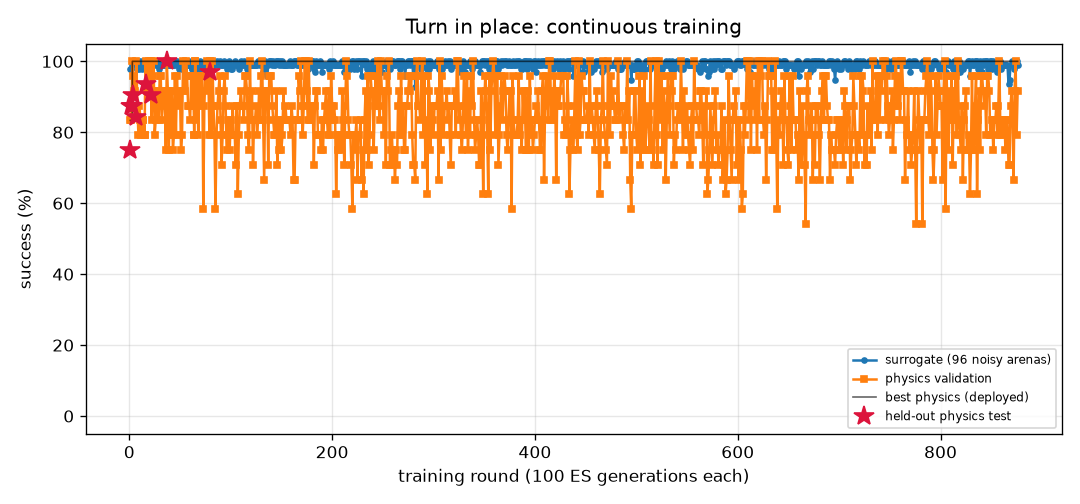
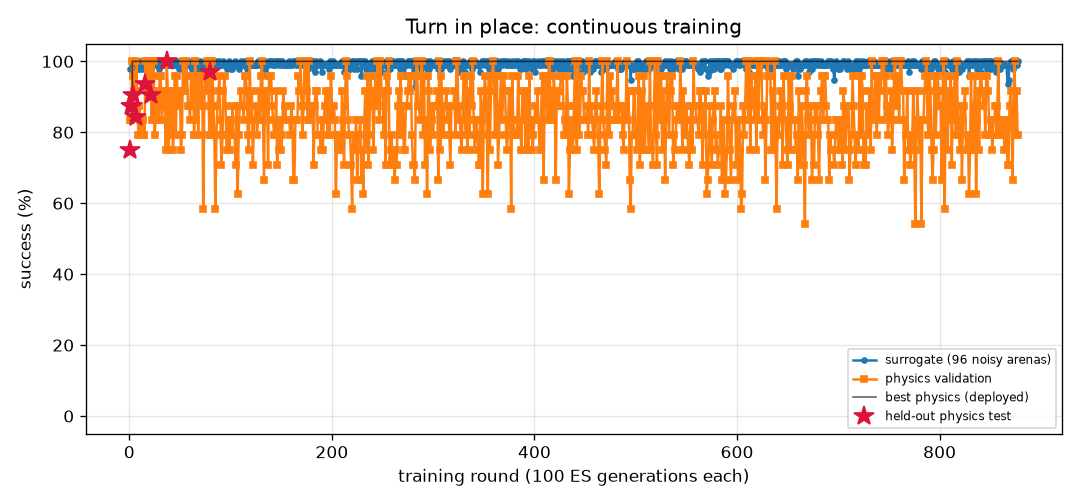
FlyLab: continuous training progress
- walk_forward: optimal, physics val 100% of 24, round 294
- turn: optimal, physics val 100% of 24, round 877
- goto: optimal, physics val 100% of 24, round 240
- odor_seek: optimal, physics val 100% of 24, round 198
- odor_avoid: optimal, physics val 100% of 24, round 792
- light_seek: optimal, physics val 100% of 24, round 436
- light_avoid: optimal, physics val 100% of 24, round 527

diff --git a/projects/09_flylab/training/light_avoid/REPORT.md b/projects/09_flylab/training/light_avoid/REPORT.md
@@ -1,14 +1,14 @@
 # Hide from light (`light_avoid`) — training report
 
-*Auto-generated by `train_brains.py`, last updated 2026-11-05T16:02:57.*
+*Auto-generated by `train_brains.py`, last updated 2026-11-05T19:49:10.*
 
 ![curve](curve.png)
 
 | | |
 |---|---|
-| rounds | 526 |
-| ES generations | 52600 |
-| physics runs | 12896 |
+| rounds | 527 |
+| ES generations | 52700 |
+| physics runs | 12920 |
 | status | **optimal** |
 | best brain | round 159: physics validation **100%** on 24 arenas, surrogate 100% |
 | held-out physics test | **100%** on 32 unseen arenas (95% CI 89%-100%) (errors: [14.4, 56.1, 58.0, 57.9, 57.5, 14.0, 14.4, 56.6, 56.8, 13.3, 14.1, 56.6, 57.6, 13.1, 57.3, 55.9, 57.2, 55.0, 55.2, 53.9, 55.2, 12.4, 53.8, 53.7, 14.1, 13.7, 55.0, 57.8, 56.2, 13.1, 52.8, 56.5]) |
@@ -17,7 +17,6 @@ Physics error per arena: mm gained away from source (> 6 without first approachi
 
 | round | level | gens | sigma | surrogate | physics val | val errors | test | note |
 |---:|---:|---:|---:|---:|---:|---|---:|---|
-| 487 | 3 | 48700 | 0.024 | 99% | 100% | [49.5, 51.9, 51.5, 50.0, 54.1, 50.2, 49.3, 14.5, 12.3, 13.3, 53.0, 54.2, 14.4, 53.0, 51.5, 49.0, 14.2, 54.3, 52.0, 14.4, 50.3, 52.6, 49.2, 53.9] |  | restart from best |
 | 488 | 3 | 48800 | 0.024 | 100% | 100% | [57.2, 60.2, 60.0, 57.9, 59.3, 56.7, 58.9, 14.5, 33.8, 13.3, 59.1, 59.2, 14.4, 59.0, 60.2, 57.7, 14.2, 59.9, 60.5, 14.4, 56.5, 59.0, 58.7, 58.5] |  |  |
 | 489 | 3 | 48900 | 0.024 | 100% | 100% | [58.4, 60.7, 60.5, 58.0, 60.1, 56.5, 59.3, 14.5, 56.4, 13.3, 58.2, 59.8, 14.4, 57.3, 60.6, 57.7, 14.2, 60.5, 61.0, 14.4, 56.5, 58.8, 59.2, 59.2] |  |  |
 | 490 | 3 | 49000 | 0.024 | 100% | 100% | [51.3, 53.6, 53.3, 53.1, 55.1, 52.6, 51.6, 14.5, 47.7, 13.3, 52.4, 54.9, 14.4, 53.3, 53.3, 52.5, 14.2, 55.0, 53.1, 14.4, 51.6, 53.0, 51.4, 54.7] |  |  |
@@ -57,3 +56,4 @@ Physics error per arena: mm gained away from source (> 6 without first approachi
 | 524 | 3 | 52400 | 0.024 | 100% | 100% | [37.5, 36.4, 33.7, 37.4, 36.7, 36.1, 34.5, 14.5, 34.3, 13.5, 37.5, 38.3, 14.4, 38.3, 33.7, 36.4, 14.2, 36.4, 36.2, 14.4, 37.6, 37.5, 32.8, 38.1] |  |  |
 | 525 | 3 | 52500 | 0.024 | 100% | 100% | [52.4, 54.2, 54.1, 52.0, 52.9, 52.4, 53.1, 14.5, 37.5, 13.6, 47.4, 52.6, 14.4, 53.3, 54.2, 51.7, 14.2, 53.3, 54.6, 14.4, 50.6, 49.0, 52.9, 52.0] |  |  |
 | 526 | 3 | 52600 | 0.024 | 99% | 100% | [33.9, 33.6, 34.0, 33.9, 31.3, 33.9, 34.9, 14.5, 12.9, 13.4, 8.1, 31.4, 14.4, 34.8, 35.0, 33.9, 14.2, 32.3, 35.2, 14.4, 32.6, 25.5, 34.7, 31.3] |  |  |
+| 527 | 3 | 52700 | 0.025 | 98% | 96% | [43.3, 44.1, 43.7, 44.0, 47.4, 43.4, 41.6, 14.5, 13.0, 13.4, 10.2, 47.4, 14.4, 4.1, 43.7, 43.1, 14.2, 47.1, 44.7, 14.4, 45.0, 11.2, 42.3, 47.1] |  | restart from best |

diff --git a/projects/09_flylab/training/odor_avoid/REPORT.md b/projects/09_flylab/training/odor_avoid/REPORT.md
@@ -1,14 +1,14 @@
 # Escape a bad smell (`odor_avoid`) — training report
 
-*Auto-generated by `train_brains.py`, last updated 2026-11-05T19:05:11.*
+*Auto-generated by `train_brains.py`, last updated 2026-11-05T19:27:06.*
 
 ![curve](curve.png)
 
 | | |
 |---|---|
-| rounds | 791 |
-| ES generations | 79100 |
-| physics runs | 16290 |
+| rounds | 792 |
+| ES generations | 79200 |
+| physics runs | 16314 |
 | status | **optimal** |
 | best brain | round 373: physics validation **100%** on 24 arenas, surrogate 97% |
 | held-out physics test | **97%** on 32 unseen arenas (95% CI 84%-99%) (errors: [62.0, 57.4, 62.6, 61.9, 59.0, 61.6, 56.5, 60.7, 31.7, 60.9, 63.1, 57.1, 61.1, 62.1, 61.5, 60.2, 62.2, 55.2, 62.1, 54.2, 61.3, 62.0, 58.0, 61.9, 59.8, 56.5, 56.3, 56.4, 56.3, 57.7, 61.9, 32.4]) |
@@ -17,7 +17,6 @@ Physics error per arena: mm gained away from source (> 6 without first approachi
 
 | round | level | gens | sigma | surrogate | physics val | val errors | test | note |
 |---:|---:|---:|---:|---:|---:|---|---:|---|
-| 752 | 3 | 75200 | 0.026 | 97% | 100% | [59.8, 56.6, 55.5, 56.9, 54.1, 58.1, 60.2, 57.1, 59.9, 46.6, 27.8, 60.2, 47.4, 55.5, 30.7, 59.5, 60.2, 59.3, 48.8, 56.1, 60.4, 58.8, 54.7, 58.2] |  |  |
 | 753 | 3 | 75300 | 0.026 | 96% | 96% | [58.8, 56.4, 55.1, 56.4, 59.1, 59.6, 59.2, 33.3, 59.3, 59.2, 59.5, 60.1, 52.4, 54.9, 38.0, 58.9, 60.1, 59.8, 53.2, 53.0, 60.0, 58.2, 56.9, 33.1] |  | restart from best |
 | 754 | 3 | 75400 | 0.026 | 98% | 96% | [61.8, 56.7, 56.3, 59.9, 62.2, 62.0, 61.9, 42.3, 62.0, 60.9, 61.5, 61.7, 51.4, 56.2, 30.3, 62.2, 61.8, 61.9, 55.0, 56.6, 61.9, 60.6, 61.0, 59.8] |  |  |
 | 755 | 3 | 75500 | 0.025 | 95% | 100% | [62.4, 58.4, 56.5, 61.4, 62.6, 61.4, 61.5, 61.7, 61.3, 60.7, 62.1, 62.0, 55.2, 56.2, 51.9, 62.8, 62.0, 62.6, 55.2, 57.4, 61.9, 62.4, 58.5, 62.8] |  |  |
@@ -57,3 +56,4 @@ Physics error per arena: mm gained away from source (> 6 without first approachi
 | 789 | 3 | 78900 | 0.027 | 98% | 96% | [60.6, 57.0, 56.2, 57.0, 61.6, 61.1, 60.5, 56.0, 60.6, 58.9, 60.3, 60.8, 50.0, 55.9, 42.0, 61.6, 60.9, 61.1, 53.0, 53.2, 61.0, 57.0, 57.9, 59.4] |  | restart from best |
 | 790 | 3 | 79000 | 0.026 | 97% | 96% | [63.2, 61.6, 56.2, 58.8, 62.6, 62.0, 61.8, 50.7, 60.9, 29.8, 61.4, 62.1, 52.2, 52.1, 36.5, 60.4, 62.5, 61.8, 55.5, 60.5, 62.1, 60.3, 55.8, 36.2] |  |  |
 | 791 | 3 | 79100 | 0.026 | 96% | 100% | [62.5, 60.9, 56.4, 61.4, 61.5, 62.2, 62.3, 61.4, 62.5, 43.8, 34.5, 61.7, 48.8, 54.3, 34.0, 62.2, 61.8, 62.5, 50.0, 60.8, 61.7, 49.1, 61.1, 62.5] |  |  |
+| 792 | 3 | 79200 | 0.026 | 96% | 96% | [63.2, 61.3, 56.5, 61.3, 62.2, 61.8, 62.0, 55.2, 61.8, 61.8, 61.1, 62.0, 54.9, 56.1, 27.5, 61.8, 62.3, 60.3, 55.4, 57.1, 62.1, 62.3, 59.8, 60.2] |  |  |

diff --git a/projects/09_flylab/training/turn/REPORT.md b/projects/09_flylab/training/turn/REPORT.md
@@ -1,14 +1,14 @@
 # Turn in place (`turn`) — training report
 
-*Auto-generated by `train_brains.py`, last updated 2026-11-05T19:12:31.*
+*Auto-generated by `train_brains.py`, last updated 2026-11-05T19:29:31.*
 
 ![curve](curve.png)
 
 | | |
 |---|---|
-| rounds | 876 |
-| ES generations | 87600 |
-| physics runs | 21270 |
+| rounds | 877 |
+| ES generations | 87700 |
+| physics runs | 21294 |
 | status | **optimal** |
 | best brain | round 80: physics validation **100%** on 24 arenas, surrogate 100% |
 | held-out physics test | **97%** on 32 unseen arenas (95% CI 84%-99%) (errors: [1.6, 3.3, 6.3, 3.7, 1.1, 0.4, 2.4, 2.9, 0.1, 2.6, 0.5, 2.7, 1.5, 3.1, 4.5, 0.2, 0.5, 1.1, 2.0, 4.4, 2.8, 3.2, 0.3, 2.2, 0.5, 3.0, 0.3, 5.4, 0.4, 1.0, 4.7, 10.7]) |
@@ -17,7 +17,6 @@ Physics error per arena: deg from target heading (< 20 = success).
 
 | round | level | gens | sigma | surrogate | physics val | val errors | test | note |
 |---:|---:|---:|---:|---:|---:|---|---:|---|
-| 837 | 3 | 83700 | 0.024 | 98% | 83% | [8.7, 9.2, 1.2, 2.6, 4.1, 3.0, 3.5, 1.6, 3.6, 1.6, 3.4, 2.3, 0.4, 4.1, 3.1, 1.8, 2.4, 0.4, 1.6, 1.7, 7.5, 1.2, 4.1, 2.7] |  |  |
 | 838 | 3 | 83800 | 0.025 | 99% | 92% | [3.4, 4.4, 0.2, 1.0, 0.1, 1.4, 4.9, 5.9, 4.7, 0.6, 4.4, 0.5, 3.1, 3.4, 3.2, 0.3, 0.1, 1.8, 2.7, 0.2, 6.4, 0.1, 5.3, 0.0] |  |  |
 | 839 | 3 | 83900 | 0.025 | 100% | 75% | [2.5, 3.4, 4.4, 0.1, 14.4, 4.4, 7.9, 6.9, 7.2, 1.8, 6.6, 2.4, 0.7, 2.0, 4.7, 2.7, 2.2, 3.5, 2.5, 2.9, 2.8, 4.3, 6.4, 8.6] |  |  |
 | 840 | 3 | 84000 | 0.024 | 99% | 96% | [9.1, 5.1, 1.4, 2.9, 4.9, 15.8, 4.7, 1.8, 3.6, 0.5, 4.7, 1.3, 1.6, 3.0, 0.4, 0.2, 1.1, 0.4, 0.3, 0.4, 5.5, 1.5, 4.6, 4.9] |  | restart from best |
@@ -57,3 +56,4 @@ Physics error per arena: deg from target heading (< 20 = success).
 | 874 | 3 | 87400 | 0.024 | 99% | 100% | [1.4, 3.5, 1.7, 3.1, 0.5, 0.4, 7.5, 6.8, 7.4, 0.8, 3.3, 1.2, 0.1, 1.2, 3.7, 0.7, 0.9, 0.1, 0.8, 0.4, 4.2, 0.7, 5.9, 0.5] |  |  |
 | 875 | 3 | 87500 | 0.025 | 100% | 79% | [3.3, 4.6, 2.9, 1.3, 1.5, 1.9, 5.0, 5.2, 6.0, 1.1, 4.7, 0.8, 1.0, 2.9, 3.3, 2.3, 0.8, 1.5, 2.1, 9.1, 3.6, 3.4, 5.7, 3.8] |  |  |
 | 876 | 3 | 87600 | 0.024 | 99% | 92% | [1.3, 7.8, 1.8, 1.5, 0.9, 0.6, 4.9, 5.6, 4.9, 0.6, 3.2, 2.4, 2.8, 1.5, 4.0, 0.4, 1.7, 0.5, 0.1, 0.1, 8.5, 1.2, 3.3, 1.2] |  | restart from best |
+| 877 | 3 | 87700 | 0.024 | 100% | 79% | [5.1, 3.7, 5.9, 1.2, 3.3, 1.5, 3.5, 4.8, 3.9, 0.7, 4.1, 1.0, 0.9, 0.2, 4.0, 0.7, 1.1, 1.5, 0.5, 1.0, 4.7, 0.8, 7.0, 1.3] |  |  |

diff --git a/projects/09_flylab/training/TRAINING.md b/projects/09_flylab/training/TRAINING.md
@@ -1,15 +1,15 @@
 # FlyLab brains — continuous training log
 
-*Auto-generated by `train_brains.py`, last updated 2026-11-05T19:12:31.*
+*Auto-generated by `train_brains.py`, last updated 2026-11-05T19:49:10.*
 
 Every skill has its own brain and its own training process: surrogate ES rounds, physics validation in MuJoCo, keep-the-best selection, and a held-out physics test that is never used for selection. See each skill's report for its full round-by-round history. Mastery is progressive: passing a level (100% physics validation, >=95% surrogate) doubles the validation and test arena sets; a brain is **optimal** once it holds up at level 3 (>=95% of 24 validation arenas) AND scores >=90% on the 32 held-out test arenas. Test columns show 95% Wilson confidence intervals.
 
 | skill | rounds | ES generations | physics runs | surrogate | physics val | **physics test** | status |
 |---|---:|---:|---:|---:|---:|---:|---|
 | [Walk forward](walk_forward/REPORT.md) | 294 | 29400 | 7070 | 100% | 100% of 24 | 100% of 32 (CI 89-100%) | **optimal** |
-| [Turn in place](turn/REPORT.md) | 876 | 87600 | 21270 | 100% | 100% of 24 | 97% of 32 (CI 84-99%) | **optimal** |
+| [Turn in place](turn/REPORT.md) | 877 | 87700 | 21294 | 100% | 100% of 24 | 97% of 32 (CI 84-99%) | **optimal** |
 | [Go to a location](goto/REPORT.md) | 240 | 24000 | 5710 | 100% | 100% of 24 | 100% of 32 (CI 89-100%) | **optimal** |
 | [Find food by smell](odor_seek/REPORT.md) | 198 | 19800 | 4182 | 100% | 100% of 24 | 100% of 32 (CI 89-100%) | **optimal** |
-| [Escape a bad smell](odor_avoid/REPORT.md) | 791 | 79100 | 16290 | 97% | 100% of 24 | 97% of 32 (CI 84-99%) | **optimal** |
+| [Escape a bad smell](odor_avoid/REPORT.md) | 792 | 79200 | 16314 | 97% | 100% of 24 | 97% of 32 (CI 84-99%) | **optimal** |
 | [Walk toward light](light_seek/REPORT.md) | 436 | 43600 | 7344 | 100% | 100% of 24 | 100% of 32 (CI 89-100%) | **optimal** |
-| [Hide from light](light_avoid/REPORT.md) | 526 | 52600 | 12896 | 100% | 100% of 24 | 100% of 32 (CI 89-100%) | **optimal** |
+| [Hide from light](light_avoid/REPORT.md) | 527 | 52700 | 12920 | 100% | 100% of 24 | 100% of 32 (CI 89-100%) | **optimal** |
